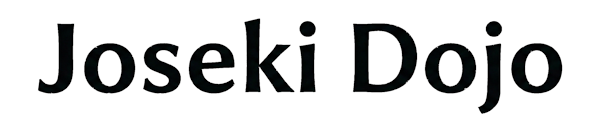
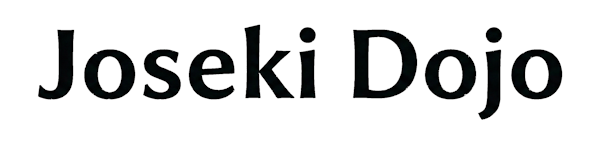
Fix menu redirect paths

diff --git a/joseki-menu/index.html b/joseki-menu/index.html
@@ -195,7 +195,7 @@
 
       <div class="menu-logo">
         <img
-          src="../img/Joseki-Dojo-Small.png"
+          src="../img/Joseki-Dojo.png"
           alt="Joseki Master"
           decoding="async"
           loading="eager"
